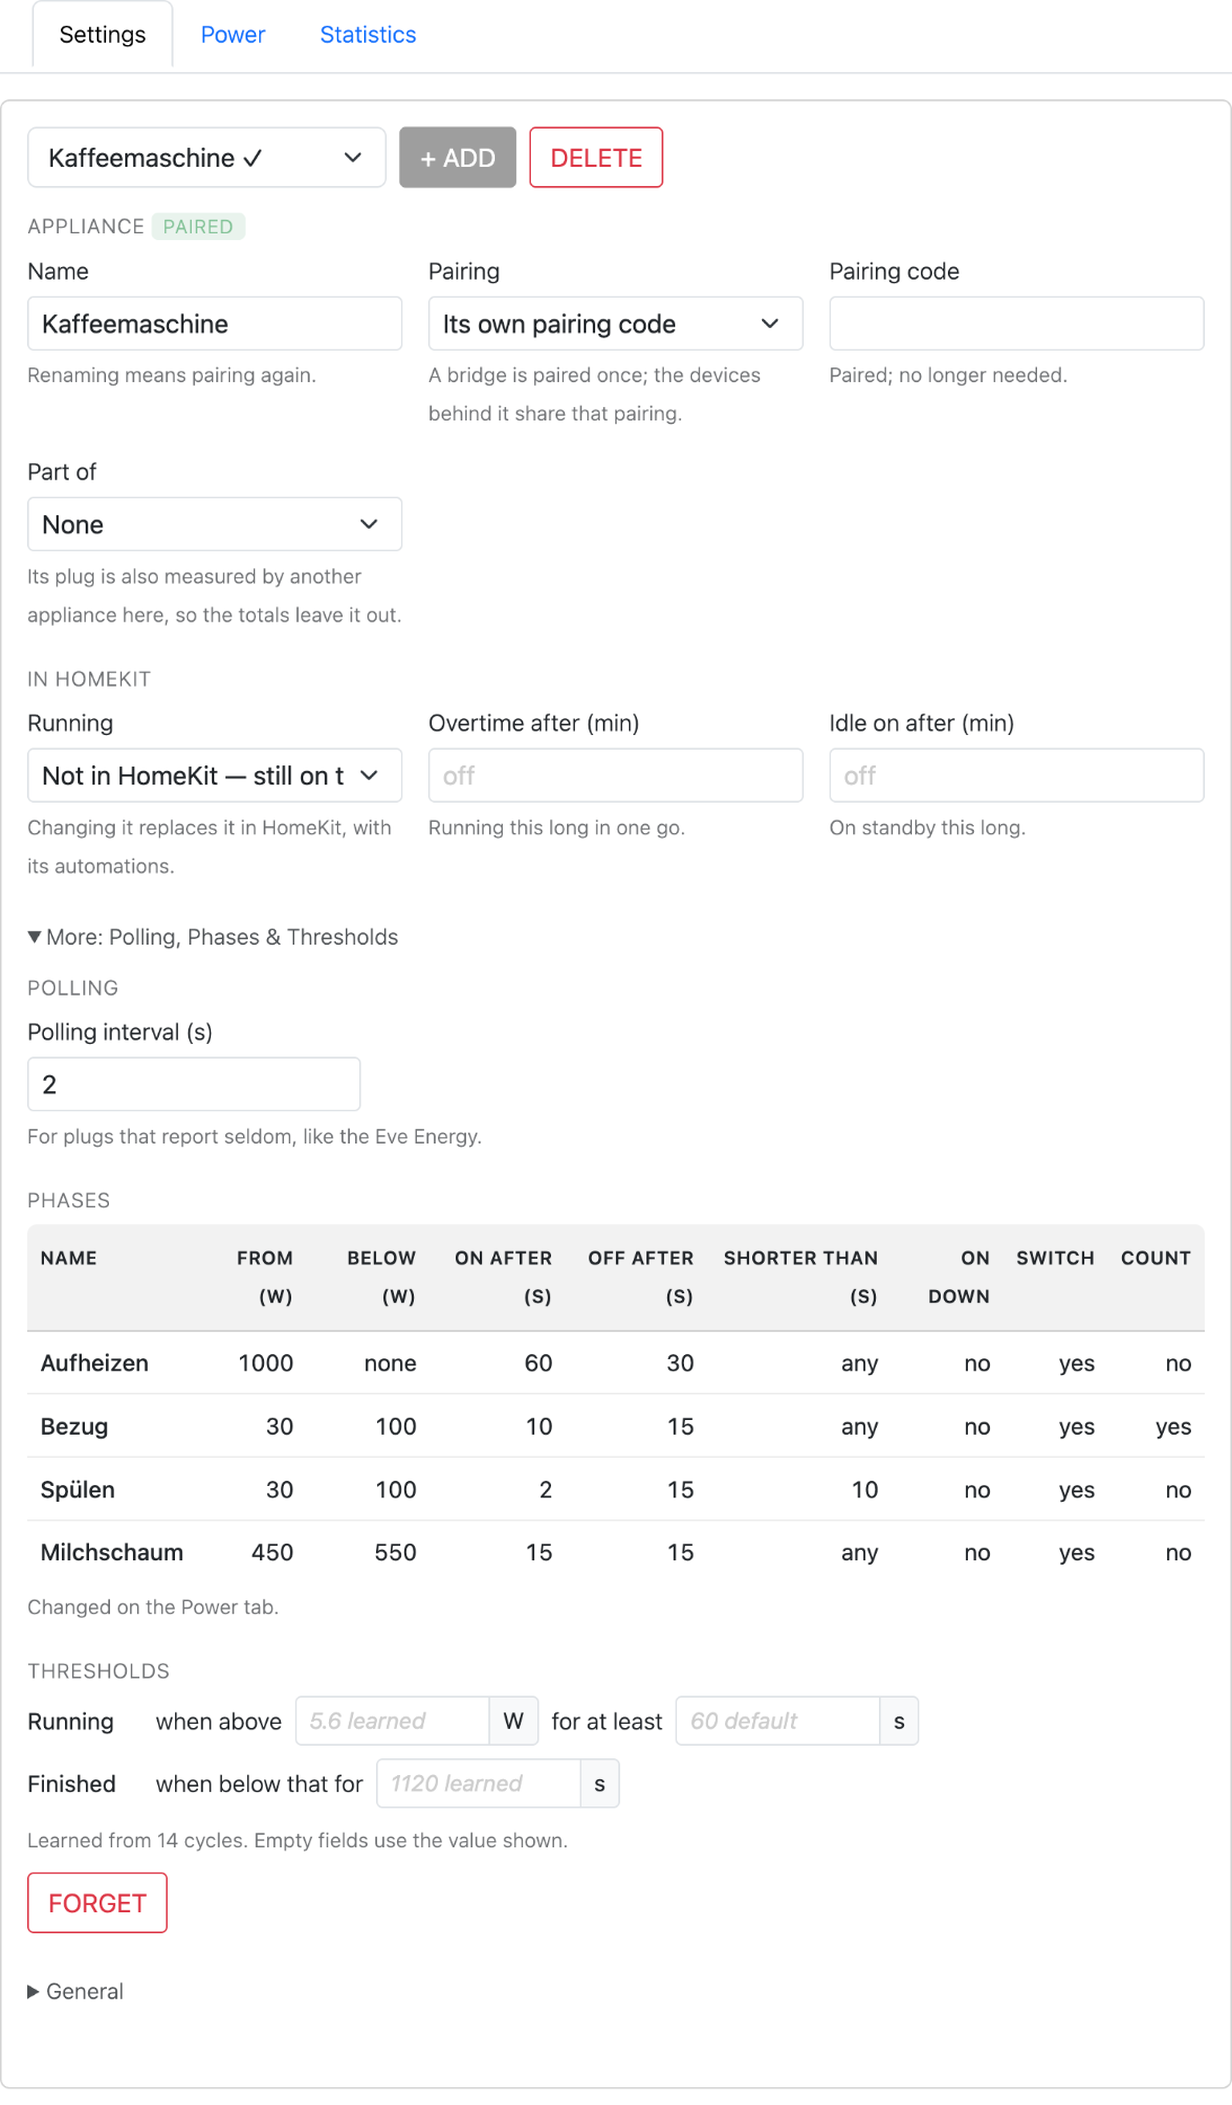
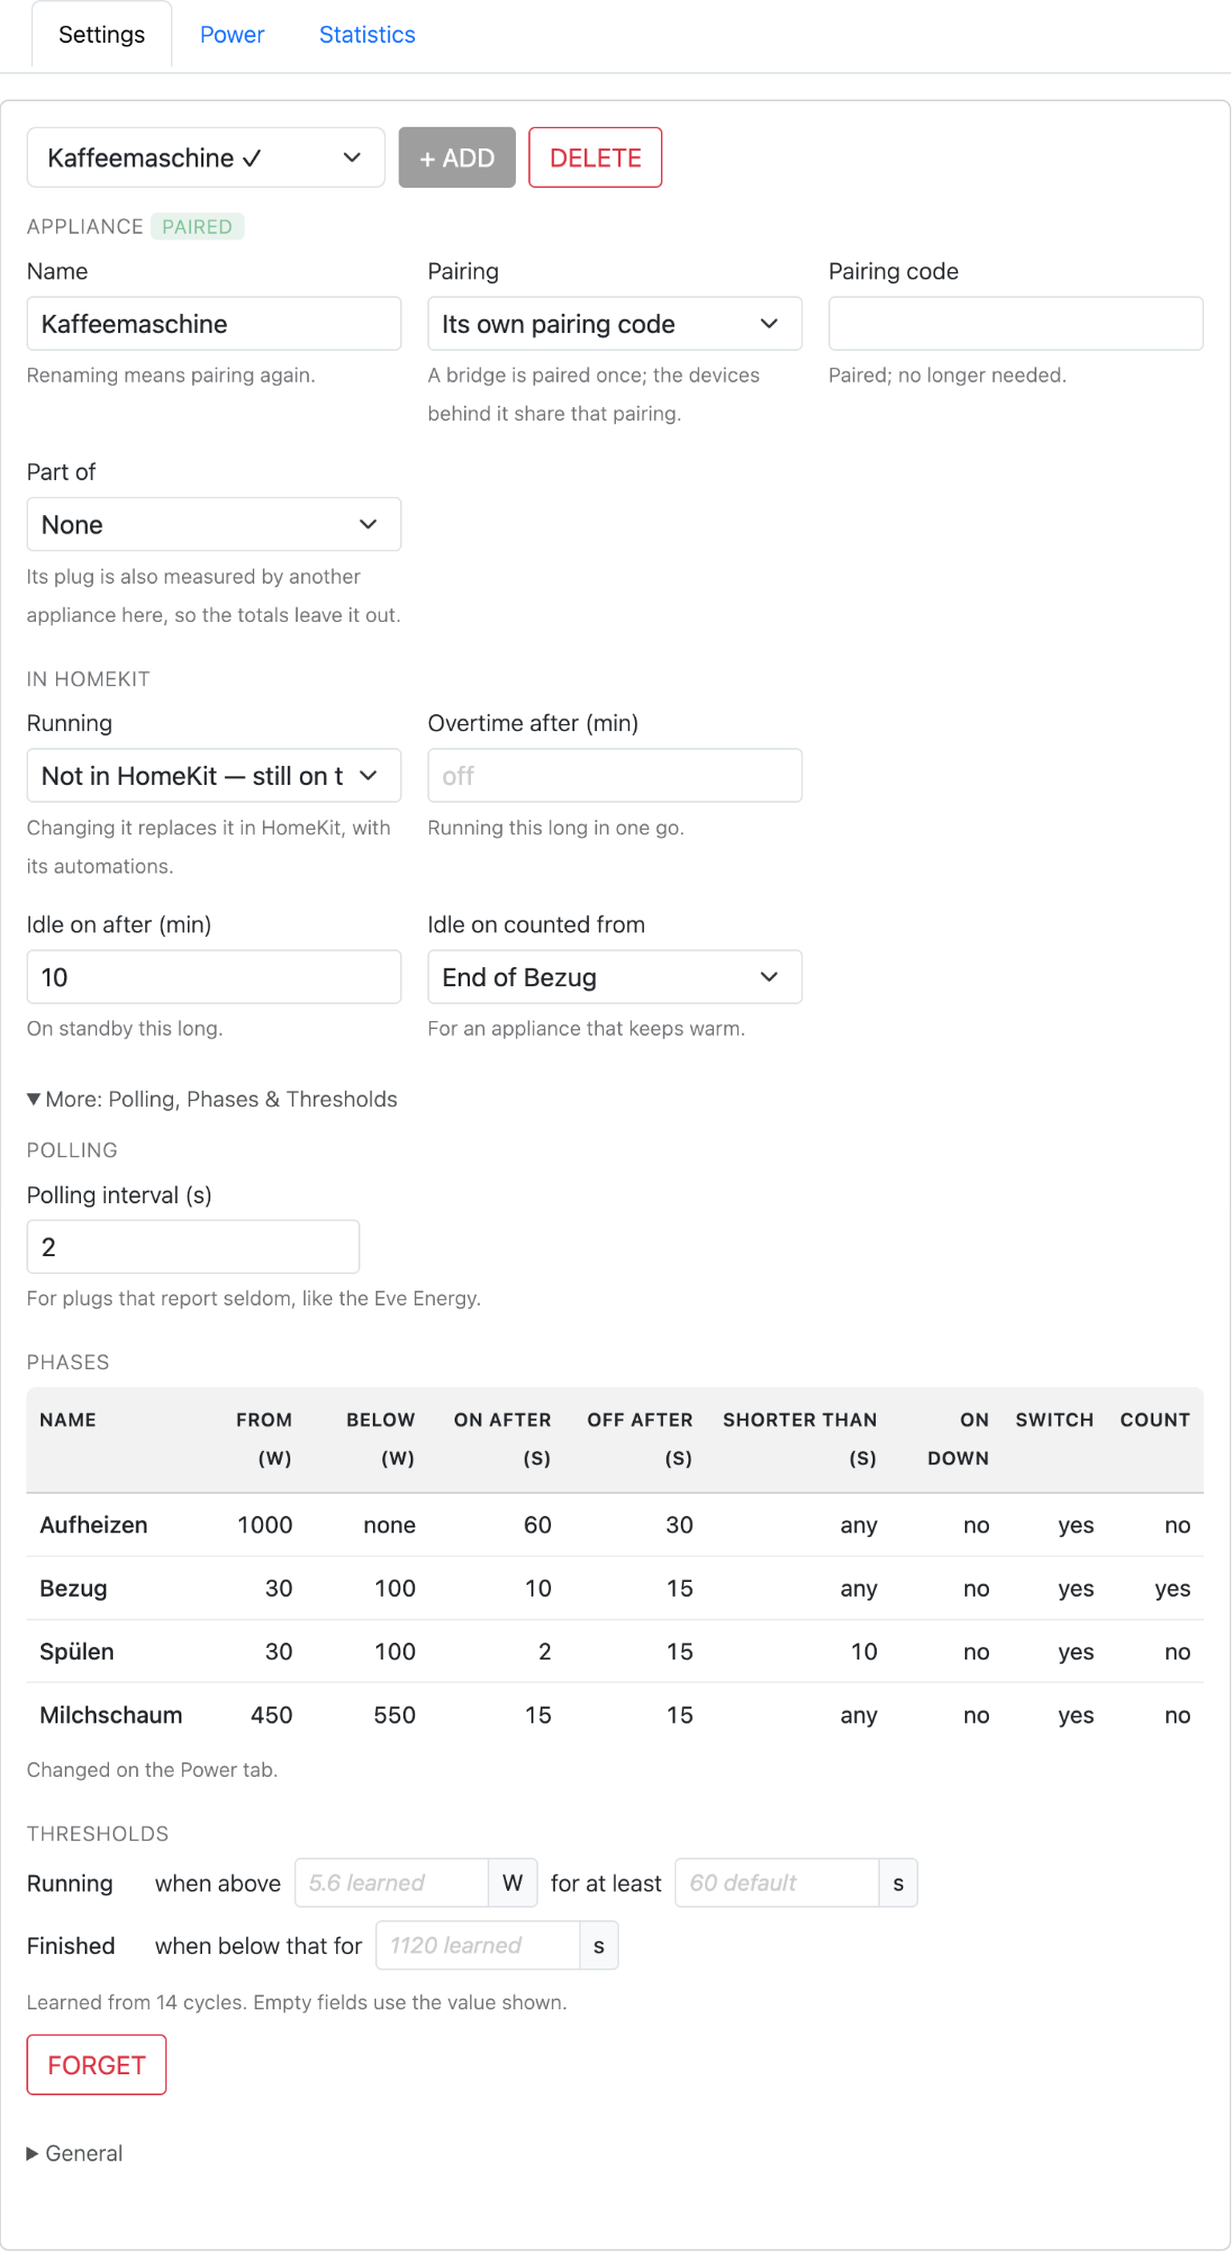
Idle On on a line of its own in the settings; new settings screenshot

diff --git a/homebridge-ui/public/settings.js b/homebridge-ui/public/settings.js
@@ -44,6 +44,9 @@
   .om-set-section { margin-bottom: 1.25rem; }
   .om-set-section > h6 { font-size: .8rem; text-transform: uppercase; letter-spacing: .04em; opacity: .65; margin-bottom: .5rem; }
   .om-set-grid { display: grid; grid-template-columns: repeat(auto-fit, minmax(13rem, 1fr)); gap: .75rem 1rem; }
+  /* Rows of fewer fields, in the same columns as a full one. */
+  .om-set-grid.om-set-rows { grid-template-columns: repeat(auto-fill, minmax(13rem, 1fr)); }
+  .om-set-rows + .om-set-rows { margin-top: .75rem; }
   .om-set-help { font-size: .78rem; opacity: .65; margin-top: .2rem; }
   .om-set-error { font-size: .78rem; color: #d64545; margin-top: .2rem; }
   /* Fixed widths for the checkboxes, as each row is a grid of its own and the
@@ -411,7 +414,7 @@
 
         el('div', { class: 'om-set-section' },
           el('h6', {}, 'In HomeKit'),
-          el('div', { class: 'om-set-grid' },
+          el('div', { class: 'om-set-grid om-set-rows' },
             field('Running',
               choice(!showing(device, 'running') ? 'none' : ['occupancy', 'outlet'].includes(device.runningAs) ? device.runningAs : 'switch',
                 [['switch', 'Switch — on while it runs'], ['outlet', 'Outlet — on while it runs'], ['occupancy', 'Occupancy sensor — taken while it draws'], ['none', 'Not in HomeKit — still on the dashboard']],
@@ -428,7 +431,9 @@
               showError(input, minutesError(device.overtimeMinutes));
               changed();
             }, 1), 'Running this long in one go.',
-            minutesError(device.overtimeMinutes ?? device.leftOnMinutes)),
+            minutesError(device.overtimeMinutes ?? device.leftOnMinutes))),
+          // Idle On on a line of its own: its two fields belong together.
+          el('div', { class: 'om-set-grid om-set-rows' },
             field('Idle on after (min)', number(device.idleOnMinutes, 'off', (value, input) => {
               setOrDrop(device, 'idleOnMinutes', numberOrUndefined(value));
               showError(input, minutesError(device.idleOnMinutes));

diff --git a/README.md b/README.md
@@ -117,7 +117,7 @@ the first plug.
 
 <picture>
   <source media="(prefers-color-scheme: dark)" srcset="https://raw.githubusercontent.com/rummeyer/homebridge-appliance-monitor/main/docs/screenshots/settings-dark.png">
-  <img src="https://raw.githubusercontent.com/rummeyer/homebridge-appliance-monitor/main/docs/screenshots/settings-light.png" alt="The Settings tab: an appliance picked from the list, with its pairing, Part of, how it shows in HomeKit its Overtime and Idle On times, and under More its polling interval, its phases and the thresholds it learned" width="760">
+  <img src="https://raw.githubusercontent.com/rummeyer/homebridge-appliance-monitor/main/docs/screenshots/settings-light.png" alt="The Settings tab: an appliance picked from the list, with its pairing, Part of, how it shows in HomeKit, its Overtime time, on a line of its own its Idle On time and what it counts from, and under More its polling interval, its phases and the thresholds it learned" width="760">
 </picture>
 
 A paired plug is remembered by its name, so renaming it means pairing it

diff --git a/CHANGELOG.md b/CHANGELOG.md
@@ -6,6 +6,11 @@ adheres to [semantic versioning](https://semver.org/spec/v2.0.0.html).
 
 ## [Unreleased]
 
+### Changed
+
+- On the settings page, Idle On's two fields have a line of their own
+  under In HomeKit, in the same columns as the fields above.
+
 ## [1.10.0] — 2026-10-15
 
 ### Added
